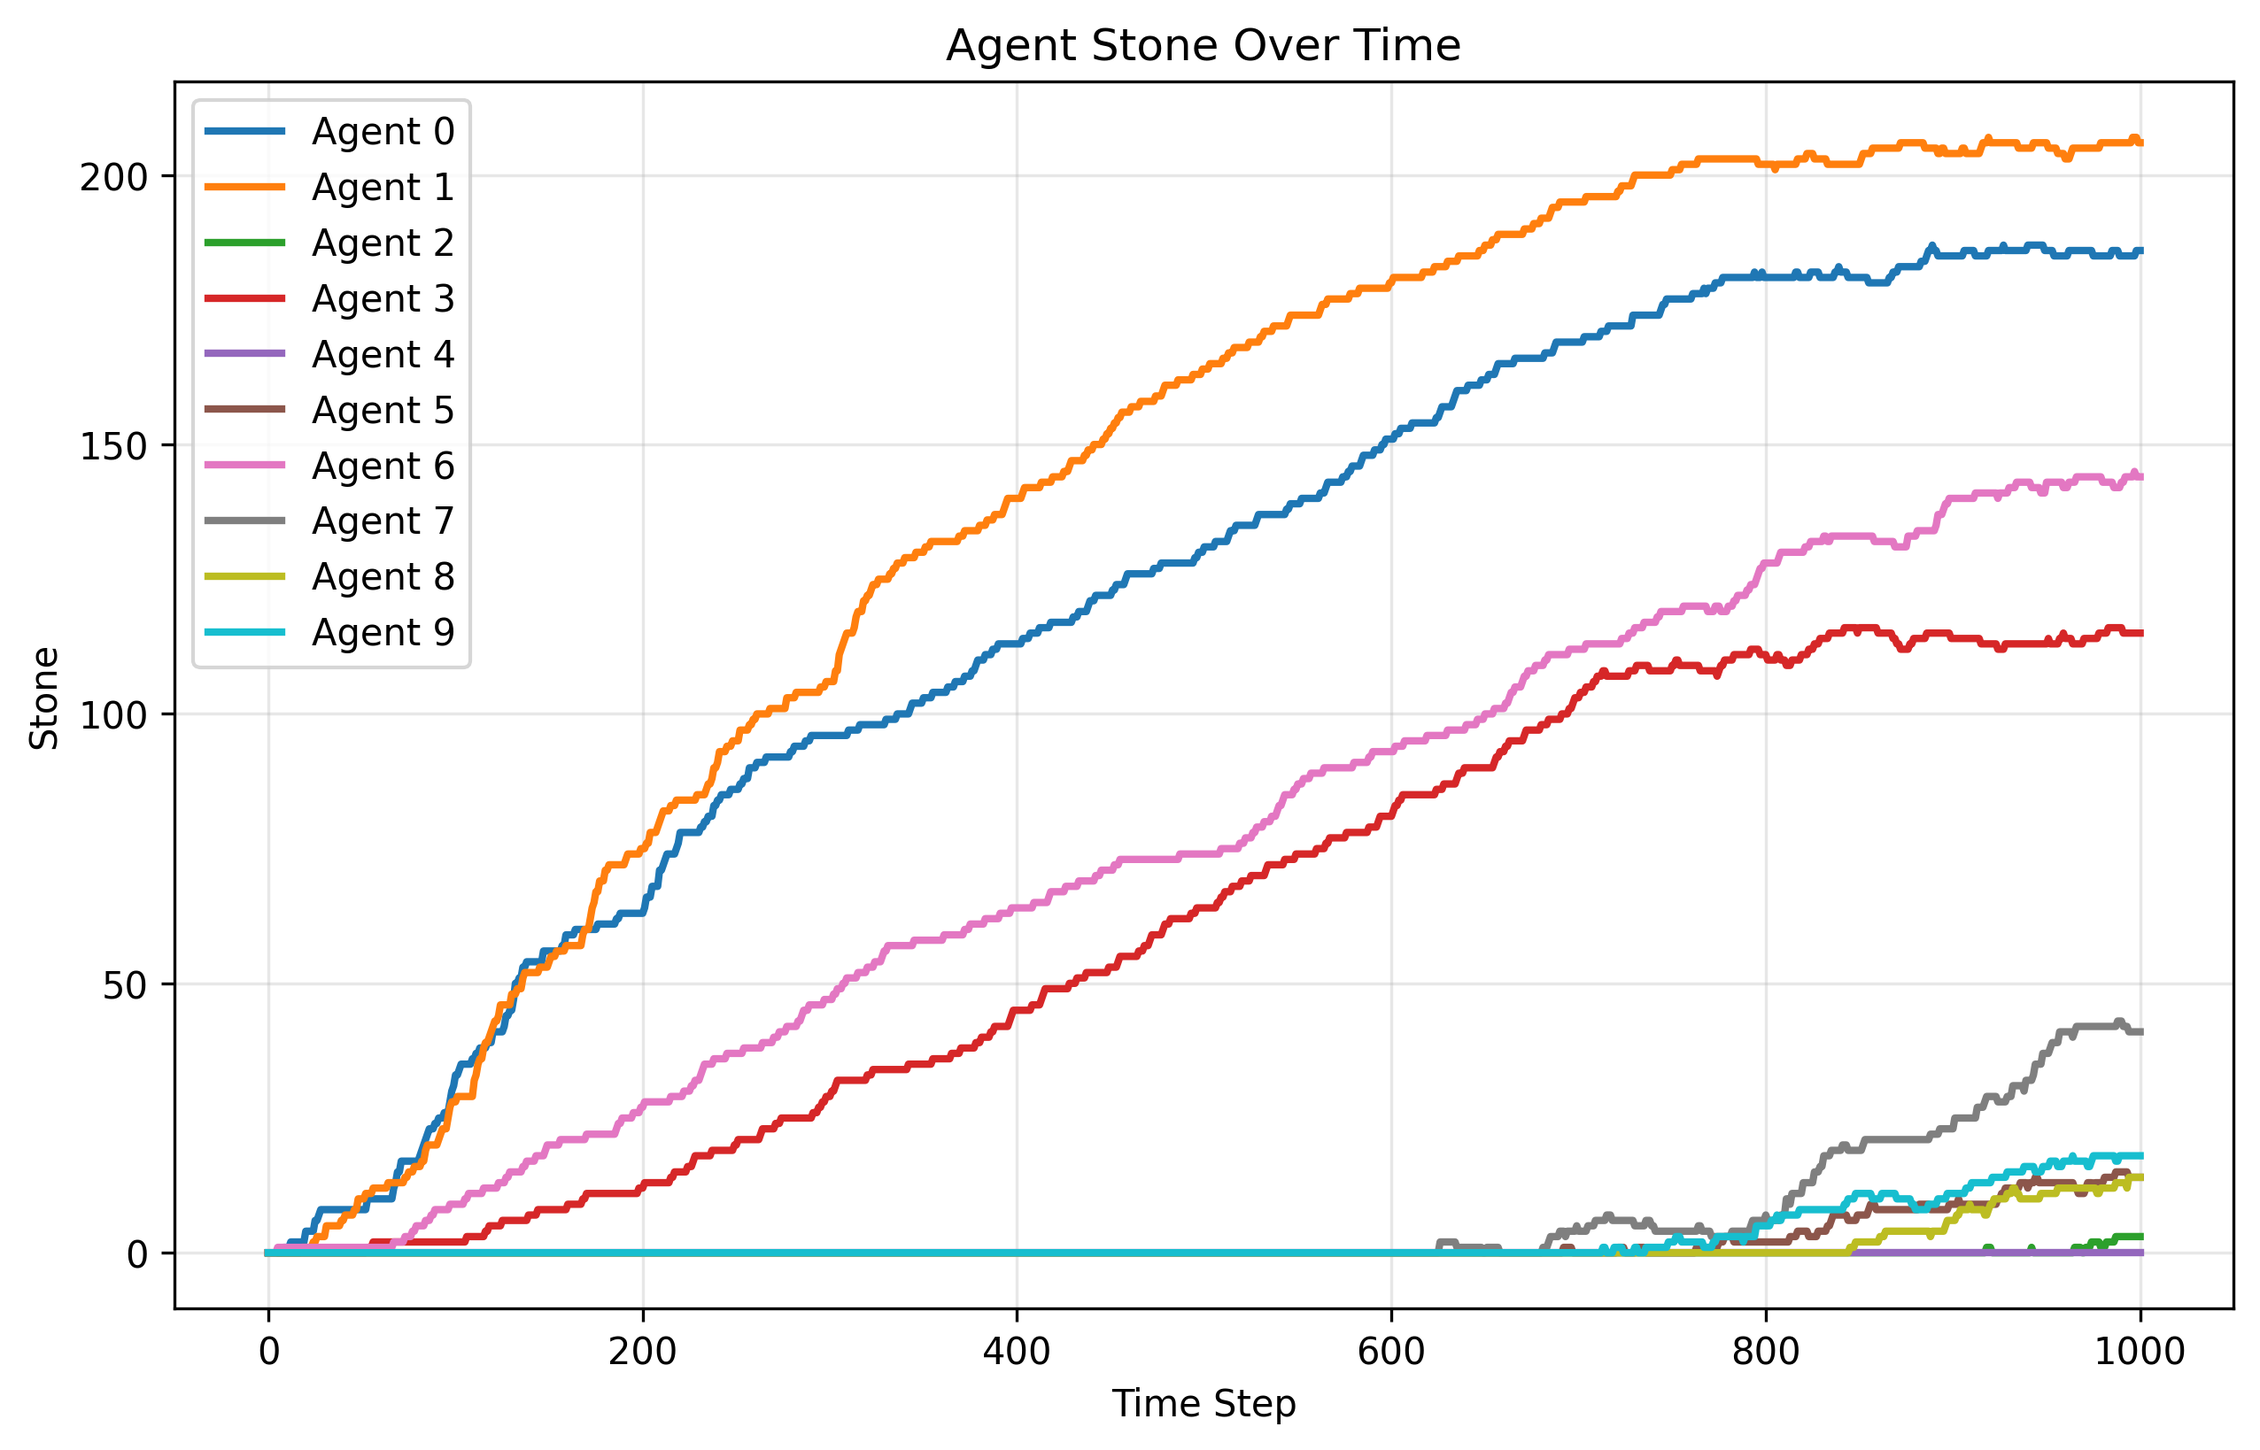
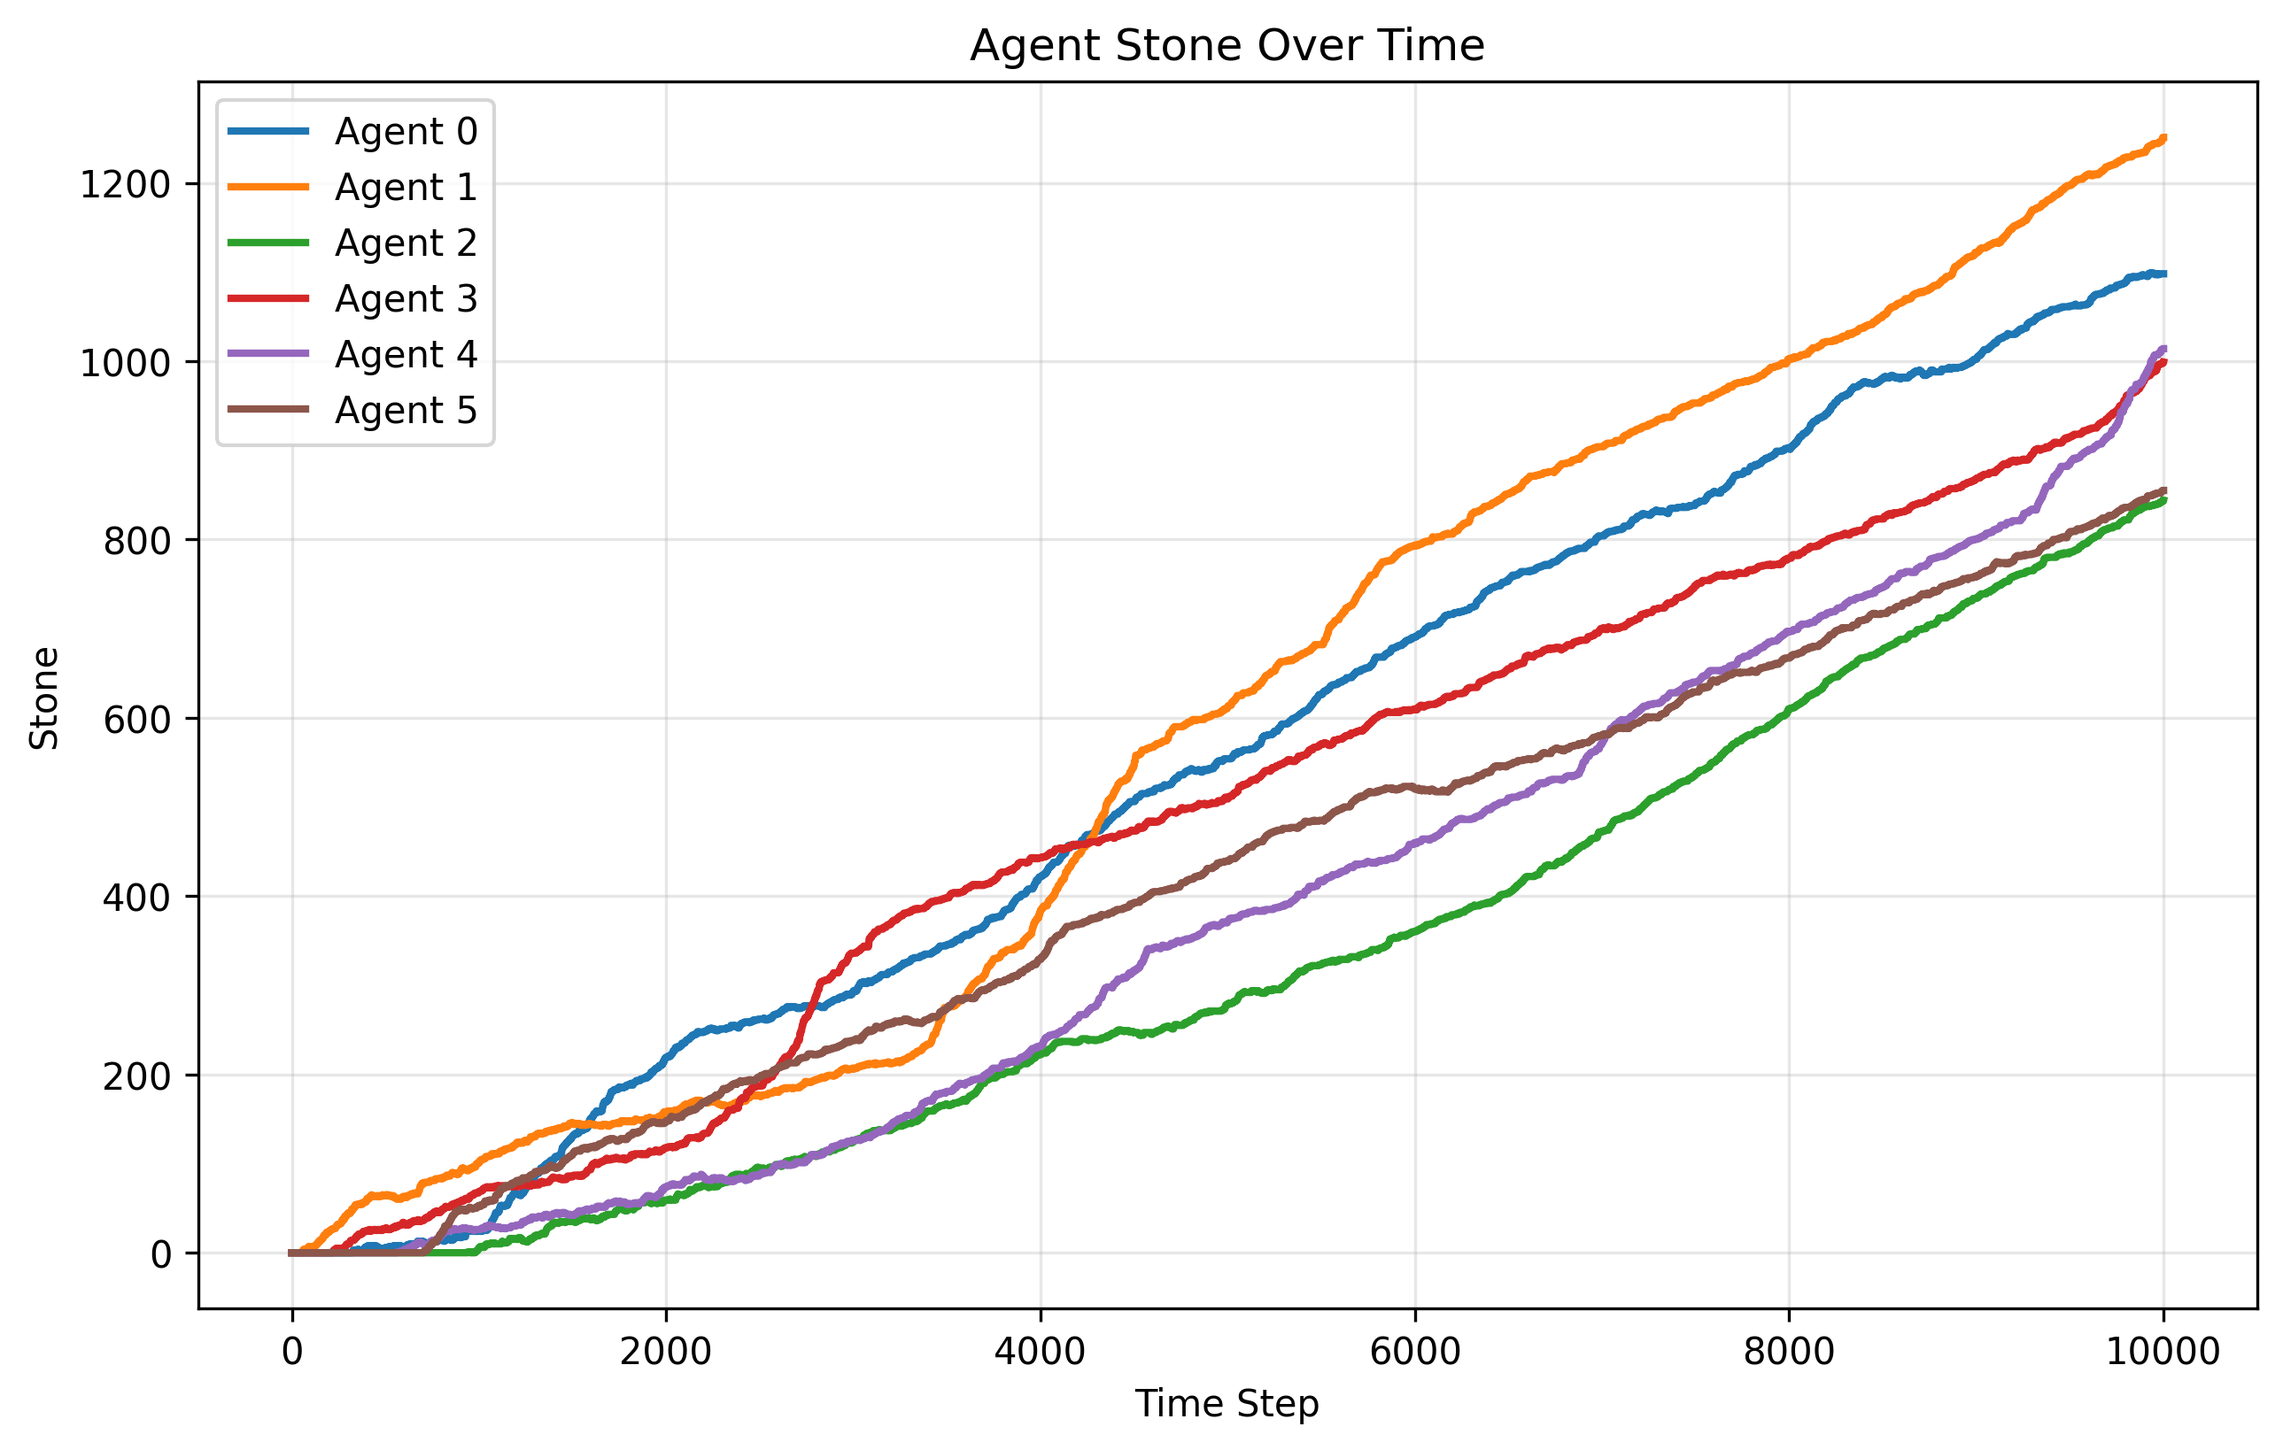
Added planner agent with random decisions

diff --git a/agents/planner_agent.py b/agents/planner_agent.py
@@ -1,0 +1,115 @@
+from agents.base_agent import BaseAgent
+import numpy as np
+
+class PlannerAgent(BaseAgent):
+    def __init__(
+            self,
+            agent_class,
+            agent_id,
+            config,
+            env,
+            llm,
+            action_mechanism,
+    ):
+        super().__init__(agent_class, agent_id, config, env)
+        self.agent_class = agent_class
+        self.agent_id = agent_id
+        self.config = config
+        self.env = env
+        self.llm = llm
+        self.action_mechanism = action_mechanism
+        self.original_tax_rates = config['default_tax_rates']
+        self.tax_brackets = config['tax_brackets']
+        self.num_tax_brackets = len(self.tax_brackets)
+        self.tax_rates = config['default_tax_rates']
+        self.tax_collection_history = []
+        self.tax_bracket_history = [self.tax_rates]
+        assert self.num_tax_brackets + 1 == len(self.tax_rates), "Number of tax brackets and tax rates must match"
+
+
+
+    def observe(self):
+        """
+        1. Bids, asks, traded prices, number of trades per resource (wood and stone)
+        2. Agent inventories (coins, wood, stone)
+        3. Current tax rates, previous year's income, tax brackets
+        4. Current time step and time to next tax year
+        """
+        pass
+
+    def step(self):
+        if self.action_mechanism not in ["llm", "random"]:
+            raise ValueError(f"Invalid planner action mechanism: {self.action_mechanism}")
+            
+        if self.action_mechanism == "llm":
+            prompt = self.observe()
+            tax_rates = self.get_tax_rates(prompt)
+        else:  # random
+            tax_rates = self.get_tax_rates()
+        self.execute_action(tax_rates)
+
+    def reset(self):
+        self.tax_rates = self.original_tax_rates
+
+    def get_tax_rates(self, prompt=None):
+        if prompt is None:
+            # set tax rates at random, each between 0 and 1
+            tax_rates = np.random.uniform(0, 1, self.num_tax_brackets)
+            return tax_rates
+        else:
+            # TODO: after getting LLM prompt and response
+            pass
+    
+    def execute_action(self, tax_rates):
+        # collect taxes from the agent based on previous tax rates
+        # then update the tax rates
+        collected_taxes = 0
+        for agent in self.env.mobile_agents:
+            if agent.agent_id == self.agent_id:
+                continue
+            
+            # get the agents income
+            income = agent.get_income()
+
+            # calculate the taxes owed using tax brackets 
+            taxes_owed = self.calculate_taxes_owed(income, self.tax_rates)
+
+            # collect the taxes from the agent
+            to_collect = min(taxes_owed, agent.inventory['coins'])
+            agent.inventory['coins'] -= to_collect
+            collected_taxes += to_collect
+
+        # update the tax rates
+        self.tax_rates = tax_rates
+        self.tax_collection_history.append(collected_taxes)
+        self.tax_bracket_history.append(self.tax_rates)
+        
+        # disburse the collected taxes to the agents equally
+        # TODO: not sure if there is other ways to redistribute the income
+        for agent in self.env.mobile_agents:
+            if agent.agent_id == self.agent_id:
+                continue
+            agent.inventory['coins'] += collected_taxes / (len(self.env.mobile_agents) - 1)
+
+    
+    def calculate_taxes_owed(self, income, tax_rates):
+        total_tax = 0
+        remaining_income = income
+
+        if income <= self.tax_brackets[0]:
+            return income * tax_rates[0]
+        
+        for i in range(len(self.tax_brackets) - 1):
+            bracket_size = self.tax_brackets[i + 1] - self.tax_brackets[i]
+            if remaining_income <= 0:
+                break
+
+            taxable_amount = min(bracket_size, remaining_income)
+            total_tax += taxable_amount * tax_rates[i + 1]
+            remaining_income -= taxable_amount
+        
+        if remaining_income > 0:
+            total_tax += remaining_income * tax_rates[-1]
+        
+        return total_tax
+        

diff --git a/services/plotting_service.py b/services/plotting_service.py
@@ -47,6 +47,11 @@ class PlottingService:
         if trading_system:
             self.plot_market_metrics(trading_system, config)
         
+        # Add the new plots
+        self.plot_yearly_income(agents, plot_path)
+        if env and env.planner:
+            self.plot_tax_rates(env.planner, plot_path)
+        
         print(f"All agent metrics plots saved successfully to {plot_path}!")
     
     def _get_plot_path(self, config):
@@ -349,3 +354,73 @@ class PlottingService:
         plt.close()
         
         print("Saved market_prices.png")
+
+    def plot_yearly_income(self, agents, plot_path):
+        """Plot yearly income for each agent."""
+        plt.figure(figsize=(10, 6))
+        
+        # Calculate yearly incomes for each agent
+        for agent in agents:
+            # Get income at year intervals
+            yearly_incomes = []
+            for i in range(len(agent.metrics_history['coins'])):
+                if i % agent.env.year_length == 0:
+                    if i == 0:
+                        yearly_incomes.append(0)  # First year has no income
+                    else:
+                        # Calculate income as difference from last year
+                        current_coins = agent.metrics_history['coins'][i]
+                        last_year_coins = agent.metrics_history['coins'][i - agent.env.year_length]
+                        yearly_incomes.append(current_coins - last_year_coins)
+            
+            years = range(len(yearly_incomes))
+            plt.plot(years, yearly_incomes, label=f'Agent {agent.agent_id}', linewidth=2)
+        
+        plt.xlabel('Year')
+        plt.ylabel('Income')
+        plt.title('Yearly Income by Agent')
+        plt.legend()
+        plt.grid(True, alpha=0.3)
+        
+        # Save the plot
+        filename = 'agent_yearly_income.png'
+        filepath = os.path.join(plot_path, filename)
+        plt.savefig(filepath, dpi=300, bbox_inches='tight')
+        plt.close()
+        
+        print(f"Saved {filename}")
+
+    def plot_tax_rates(self, planner, plot_path):
+        """Plot tax rates over time with dynamic bracket ranges."""
+        plt.figure(figsize=(10, 6))
+        
+        # Get tax rates and brackets history
+        tax_brackets = planner.tax_brackets
+        
+        # Create labels for the legend that show the bracket ranges
+        labels = []
+        labels.append(f'0-{tax_brackets[0]}')  # First bracket
+        for i in range(len(tax_brackets)-1):
+            labels.append(f'{tax_brackets[i]}-{tax_brackets[i+1]}')
+        labels.append(f'{tax_brackets[-1]}+')  # Last bracket
+        
+        # Plot each tax rate over time
+        time_steps = range(len(planner.tax_bracket_history))
+        for bracket_idx in range(len(planner.tax_rates)):
+            # Extract the tax rate for this bracket at each time step
+            rates = [tax_rates[bracket_idx] for tax_rates in planner.tax_bracket_history]
+            plt.plot(time_steps, rates, label=labels[bracket_idx], linewidth=2)
+        
+        plt.xlabel('Time Step')
+        plt.ylabel('Tax Rate')
+        plt.title('Tax Rates by Income Bracket')
+        plt.legend()
+        plt.grid(True, alpha=0.3)
+        
+        # Save the plot
+        filename = 'tax_rates.png'
+        filepath = os.path.join(plot_path, filename)
+        plt.savefig(filepath, dpi=300, bbox_inches='tight')
+        plt.close()
+        
+        print(f"Saved {filename}")

diff --git a/agents/mobile_agent.py b/agents/mobile_agent.py
@@ -30,6 +30,8 @@ class MobileAgent(BaseAgent):
         self.gather_skill = gather_skill
         self.active_orders = 0
 
+        self.last_year_coins = 0
+
         self.metrics_history = {
             'coins': [0],
             'wood': [0], 
@@ -89,6 +91,9 @@ class MobileAgent(BaseAgent):
         # Get decision history
 
         decision_history = self.format_decision_history()
+
+        # get sorted income distribution
+        income_distribution = self.get_income_distribution()
         
         prompt = f"""
         You are a mobile agent in a 2D grid world.
@@ -104,6 +109,10 @@ class MobileAgent(BaseAgent):
         - Total houses built: {self.total_houses_built}
         - Active market orders: {self.active_orders}
         - Resources in escrow: {self.escrow}
+        - Income: {self.get_income()}
+        - Tax bracket: {self.get_tax_bracket()}
+        - Tax rates: {self.env.planner.tax_rates}
+        - Sorted anonymized income distribution: {income_distribution}
 
         {decision_history}
 
@@ -118,13 +127,14 @@ class MobileAgent(BaseAgent):
 
     def step(self):
         # this function will step. so we need to observe, then get the action, then execute the action
+        if self.action_mechanism not in ["llm", "random"]:
+            raise ValueError(f"Invalid agent action mechanism: {self.action_mechanism}")
+            
         if self.action_mechanism == "llm":
             prompt = self.observe()
             action = self.get_action(prompt)
-        elif self.action_mechanism == "random":
+        else:  # random
             action = self.get_action()
-        else:
-            raise ValueError(f"Invalid action mechanism: {self.action_mechanism}")
         self.execute_action(action)
         self.record_metrics()
 
@@ -157,6 +167,10 @@ class MobileAgent(BaseAgent):
         else:
             pass
 
+    def get_income_distribution(self):
+        # get sorted income distribution
+        income_distribution = sorted(self.env.mobile_agents, key=lambda x: x.get_income())
+        return income_distribution
 
     def _get_action_descriptions(self):
         """Generate dynamic descriptions of valid actions."""
@@ -419,7 +433,19 @@ class MobileAgent(BaseAgent):
         self.metrics_history['escrow_stone'].append(self.escrow['stone'])
 
     def reset(self):
-        pass
+        self.last_year_coins = 0
+        self.inventory = {'wood': 0, 'stone': 0, 'coins': 0}
+        self.escrow = {'wood': 0, 'stone': 0, 'coins': 0}
+        self.utility = [0]
+        self.labour = [0]
+        self.movement_history = []
+        self.decision_history = []
+
+    def reset_year(self):
+        self.last_year_coins = self.inventory['coins']
+
+    def get_income(self):
+        return self.inventory['coins'] - self.last_year_coins
 
     def get_utility(self):
         if self.risk_aversion == 1:
@@ -477,7 +503,6 @@ class MobileAgent(BaseAgent):
     def build(self):
         # build if we have at least one wood and one stone
         # and if the location is buildable
-
         location = self.env.current_agent_positions[self.agent_id]
         if self.env.map["Buildable"][location[0], location[1]] == 0:
             return

diff --git a/environments/env.py b/environments/env.py
@@ -1,6 +1,7 @@
 import numpy as np
 import random
 from agents.mobile_agent import MobileAgent
+from agents.planner_agent import PlannerAgent
 from services.plotting_service import PlottingService
 from services.trading_system import TradingSystem
 from services.llm_services import create_llm
@@ -19,7 +20,8 @@ class EconomyEnv:
         self.build_payout_multiplier = config['build_payout_multiplier']
         self.risk_aversion = config['risk_aversion']
         self.discount_factor = config['discount_factor']
-        self.action_mechanism = config['action_mechanism']
+        self.agent_action_mechanism = config['agent_action_mechanism']
+        self.planner_action_mechanism = config['planner_action_mechanism']
         self.gather_skill_range = config['gather_skill_range']
     
         self.move_labour = config['move_labour']
@@ -28,6 +30,8 @@ class EconomyEnv:
         self.gather_labour = config['gather_labour']
         self.max_order_price = config['max_order_price']
 
+        self.year_length = config['year_length']
+
         self.map = self.generate_map()
 
         self.n_agents = config['n_agents']
@@ -35,7 +39,7 @@ class EconomyEnv:
 
         for i in range(self.n_agents):
             llm = None
-            if self.action_mechanism == "llm":
+            if self.agent_action_mechanism == "llm":
                 llm = create_llm({
                     **config['llm'],
                     'log_dir': config['llm'].get('log_dir', 'logs'),
@@ -55,11 +59,20 @@ class EconomyEnv:
                     self.risk_aversion,
                     self,
                     llm,
-                    self.action_mechanism,
+                    self.agent_action_mechanism,
                     random.uniform(self.gather_skill_range[0], self.gather_skill_range[1])
                 )
             )
         
+        self.planner = PlannerAgent(
+            "PlannerAgent",
+            self.n_agents,
+            config,
+            self,
+            None,
+            self.planner_action_mechanism
+        )
+
         self.initial_agent_positions = self.initialize_agents()
         self.current_agent_positions = self.initial_agent_positions.copy()
 
@@ -150,6 +163,11 @@ class EconomyEnv:
             agent.step()
         self.trading_system.step()
         self.regenerate_tiles()
+
+        if self.time > 0 and self.time % self.year_length == 0:
+            self.planner.step()
+            self.reset_year()
+
         self.time += 1
 
     def reset_year(self):

diff --git a/scripts/dev_testing.py b/scripts/dev_testing.py
@@ -14,10 +14,11 @@ config = {
     'build_payout_max': 20,
     'build_payout_multiplier': 1.5,
     'risk_aversion': 0.5,
-    'n_agents': 2,
+    'n_agents': 6,
     'discount_factor': 0.95,
-    'action_mechanism': "random",
-    'episode_length': 1000,
+    'agent_action_mechanism': "random",
+    'planner_action_mechanism': "random",
+    'episode_length': 10000,
     'plot_path': 'plots',
     'gather_skill_range': (0.0, 1.0),
     'move_labour': 0.21,
@@ -35,7 +36,10 @@ config = {
         'log_dir': 'logs',
         'log_file': 'llm_conversation.txt' 
     },
-    'agent_view_size': 10
+    'agent_view_size': 10,
+    'tax_brackets': [11601, 47151, 100526, 191951, 243726, 609351],
+    'default_tax_rates': [0.1, 0.12, 0.22, 0.24, 0.32, 0.35, 0.37],
+    'year_length': 1000
 }
 
 env = EconomyEnv(config)
